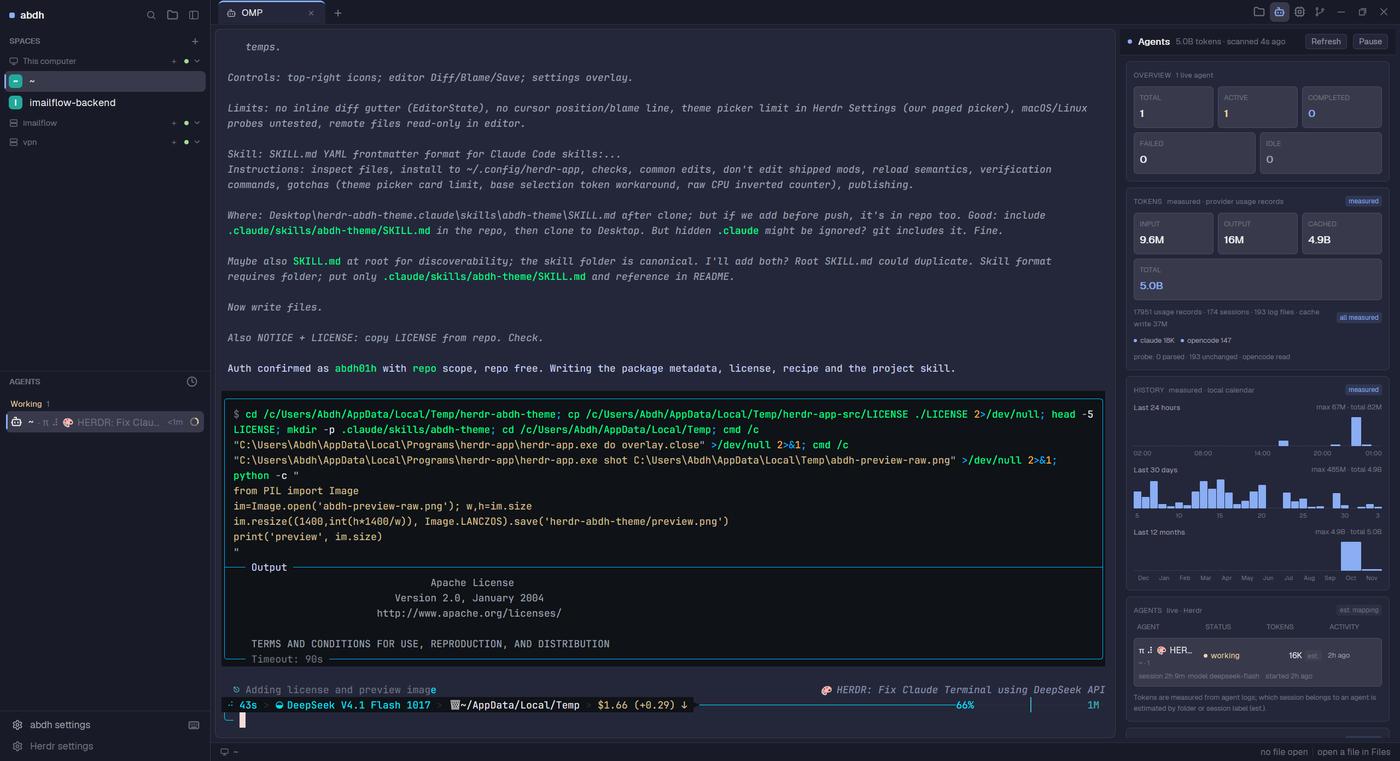
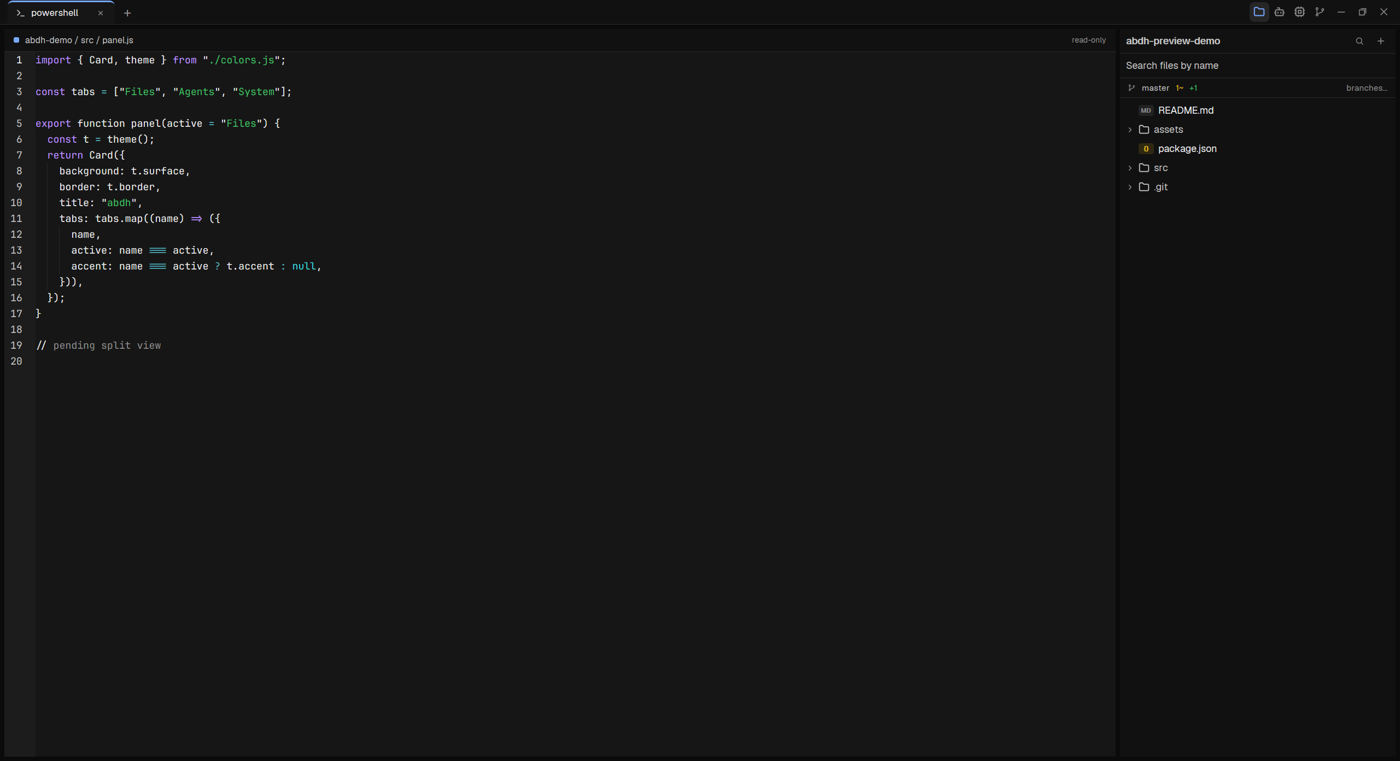
preview: demo project shot without personal workspace; explorer root pinned by props

diff --git a/mods/abdh-explorer/main.js b/mods/abdh-explorer/main.js
@@ -13,7 +13,10 @@ const DEFAULTS = { explorer: { icons: true, gitColors: true, hiddenFiles: false,
 const settings = () => ({ ...DEFAULTS, ...(shared("abdh.settings") ?? {}) });
 
 function location() {
+  const shown = props() ?? {};
   const space = spaces().find((s) => s.active), f = focused();
+  // A layout can pin the panel to a folder (a preview, a docs tree).
+  if (shown.root) return { cwd: shown.root, on: shown.on ?? null, space: space?.id, tab: f?.tab };
   const pane = f?.pane ? panes().find((p) => p.pane === f.pane) : null;
   // A mod pane (editor, panel tab) has no folder: follow the tab's terminal instead,
   // then the space's folder. Otherwise Files follows the editor to the home folder.

diff --git a/RECIPE.md b/RECIPE.md
@@ -30,7 +30,7 @@ Type: JetBrains Mono 13 for terminals/editor, Geist for chrome. Palette: backgro
 ## Built from
 
 - `layouts/abdh.json`: root `row` (`theme: "abdh"`, `titlebar: "none"`, `traffic_lights`, `movable: false`, 13 px JetBrains Mono, Geist UI) → sidebar column (brand, spaces, agents, footer) + work column (tabs block, body row with the active tab block and the 360 px panel column holding `panel-body` stack, status block).
-- Layout ids: `sidebar`, `brand`, `spaces`, `agents`, `sidebar-footer`, `work`, `tabs`, `work-body`, `main`, `panel`, `panel-body`, `panel-files`, `panel-agents`, `panel-system`, `status`. Panel children are `panel-files`/`panel-agents`/`panel-system` (distinct from the sidebar `agents` id on purpose).
+- Layout ids: `sidebar`, `brand`, `spaces`, `agents`, `sidebar-footer`, `work`, `tabs`, `work-body`, `main`, `panel`, `panel-body`, `panel-files`, `panel-agents`, `panel-system`, `status`. A layout can pin the Files panel to a folder with `content: { mod: "abdh-explorer", props: { root: "..." } }` (used for the preview shot). Panel children are `panel-files`/`panel-agents`/`panel-system` (distinct from the sidebar `agents` id on purpose).
 - Mods and roles: `abdh-chrome` (brand, footer, Base theme/selection sync), `abdh-spaces` (fork of spaces), `abdh-agents-list` (fork of agents), `abdh-tabs` (tab strip + window-bar tools), `abdh-explorer` (Files panel and its dialogs), `abdh-editor` (mod pane, diff/blame/save), `abdh-status`, `abdh-agents` (token analytics), `abdh-system` (hardware probes), `abdh-git` (branches/merge/blame overlay), `abdh-settings` (settings overlay + theme list), `abdh-menu` (generic popup). Shipped mods used: `pane` is not used; `new-menu`, `menu`, `picker`, `spaces`, `agents` are not referenced by the layout except the two forked lists.
 - Herdr API used: `theme()`, `shared`/`setShared`, `layout()`, `panes()`, `spaces()`, `agents()`, `terminals()`, `focused()`, `keys()`, `settings()`, `run()` (layout.show/select/hide, tab.new/close/select/move/rename, pane.split/focus/close, space.new/select/move, app.theme/help/settings, terminal.pin), `openOverlay`/`closeOverlay`, `notify`, `exec`, `readTextFile`, `writeTextFile`, `watchFolder`, `nextCommand`, `appHome`, `home`, `props`, `window`, `fs/promises` (settings file + recovery copies).
 - Programs: `git` (status, ls-files, grep, blame, rev-parse, show HEAD, log, branch list, checkout, merge), `rg` (non-repo content search, `-j 2`, depth 12), PowerShell CIM counters and `nvidia-smi` (Windows), `/proc`+`df`+`sysctl` probes (Linux/macOS), LibreHardwareMonitor WMI for CPU temps, agent session logs for tokens.
